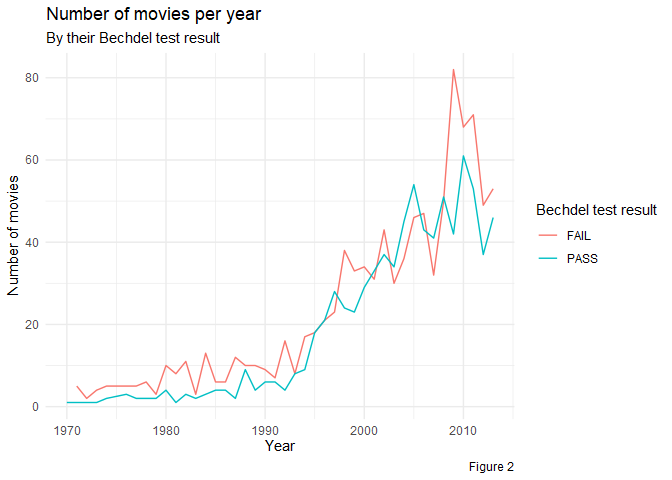
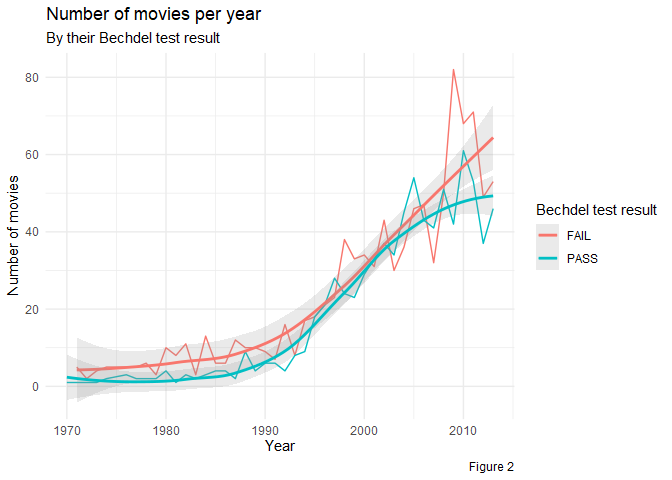
Polished the figure about rates of change in production. Added plot for the distribution of movies based on their Imdb score. Next, I will analyse those movies with higher ratings

diff --git a/Bechdel-Test.md b/Bechdel-Test.md
@@ -50,6 +50,44 @@ fact, there are 991 movies that fail the test, and 803 which pass it.
 
 ![](Bechdel-Test_files/figure-gfm/passes_fails_per_year-1.png)<!-- -->
 
+Figure 2 shows the evolution from 1970 to 2013 in the number of movies
+which pass or fail the Bechdel test. Even though the Bechdel test was
+introduced in 1985, there doesn’t seem to have been a clear
+pre/post-Bechdel shift. The figure shows how approximately the number of
+movies released every year which fail the Bechdel test is greater than
+the number of movies which pass it.
+
+![](Bechdel-Test_files/figure-gfm/rates_of_change-1.png)<!-- -->
+
+This figure illustrates the rate of change of movies which pass or fail
+the Bechdel test. Ifthe Bechdel test had a relevant impact in the movie
+making industry, we would see a positive trend in the ‘pass’ graph after
+1985, which is not the case. Both graphs having similar rates of change
+indicates how the movie industry has upscaled it’s movie production
+without taking into consideration the Bechdel test .
+
 ![](Bechdel-Test_files/figure-gfm/lower_bracket-1.png)<!-- -->
 
+This figure looks at all the movies in the dataset with total gross
+earnings (domestic and international) under 1000 million USD. In all of
+the brackets the distribution of gross earnings is roughly split equally
+between movies which pass or not the Bechdel test.
+
 ![](Bechdel-Test_files/figure-gfm/upper_bracket-1.png)<!-- -->
+
+This figure looks at all the movies in the dataset with total gross
+earnings over 1000 million. We can see how movies which fail the Bechdel
+test have greater earnings in the ‘1000-1200’, ‘1400-1600’, ‘1600-1800’,
+and ‘1800-2000’ brackets. The ‘1200-1400’ bracket is split more equally.
+The ‘2000+’ bracket is the only bracket in the figure where “Pass”
+movies outnumber “Fail” movies. The three movies (in gross earnings
+order) in this bracket are: ‘Star Wars: Episode I - The Phantom Menace’,
+‘Star Wars: Episode VI - Return of the Jedi’, and ‘Grease’. ‘.5Star
+Wars: Episode I’ and ‘Grease’ pass the Bechdel test. ‘Star Wars: Episode
+VI’ doesn’t
+
+![](Bechdel-Test_files/figure-gfm/rating_distribution-1.png)<!-- -->
+
+Distribution of Imdb ratings is left-skewed in both cases and quite
+similar. The distributions between 2 and 8 ratings are quite similar.
+However, many more movies which fail the Bechdel test have an 8+ rating.
